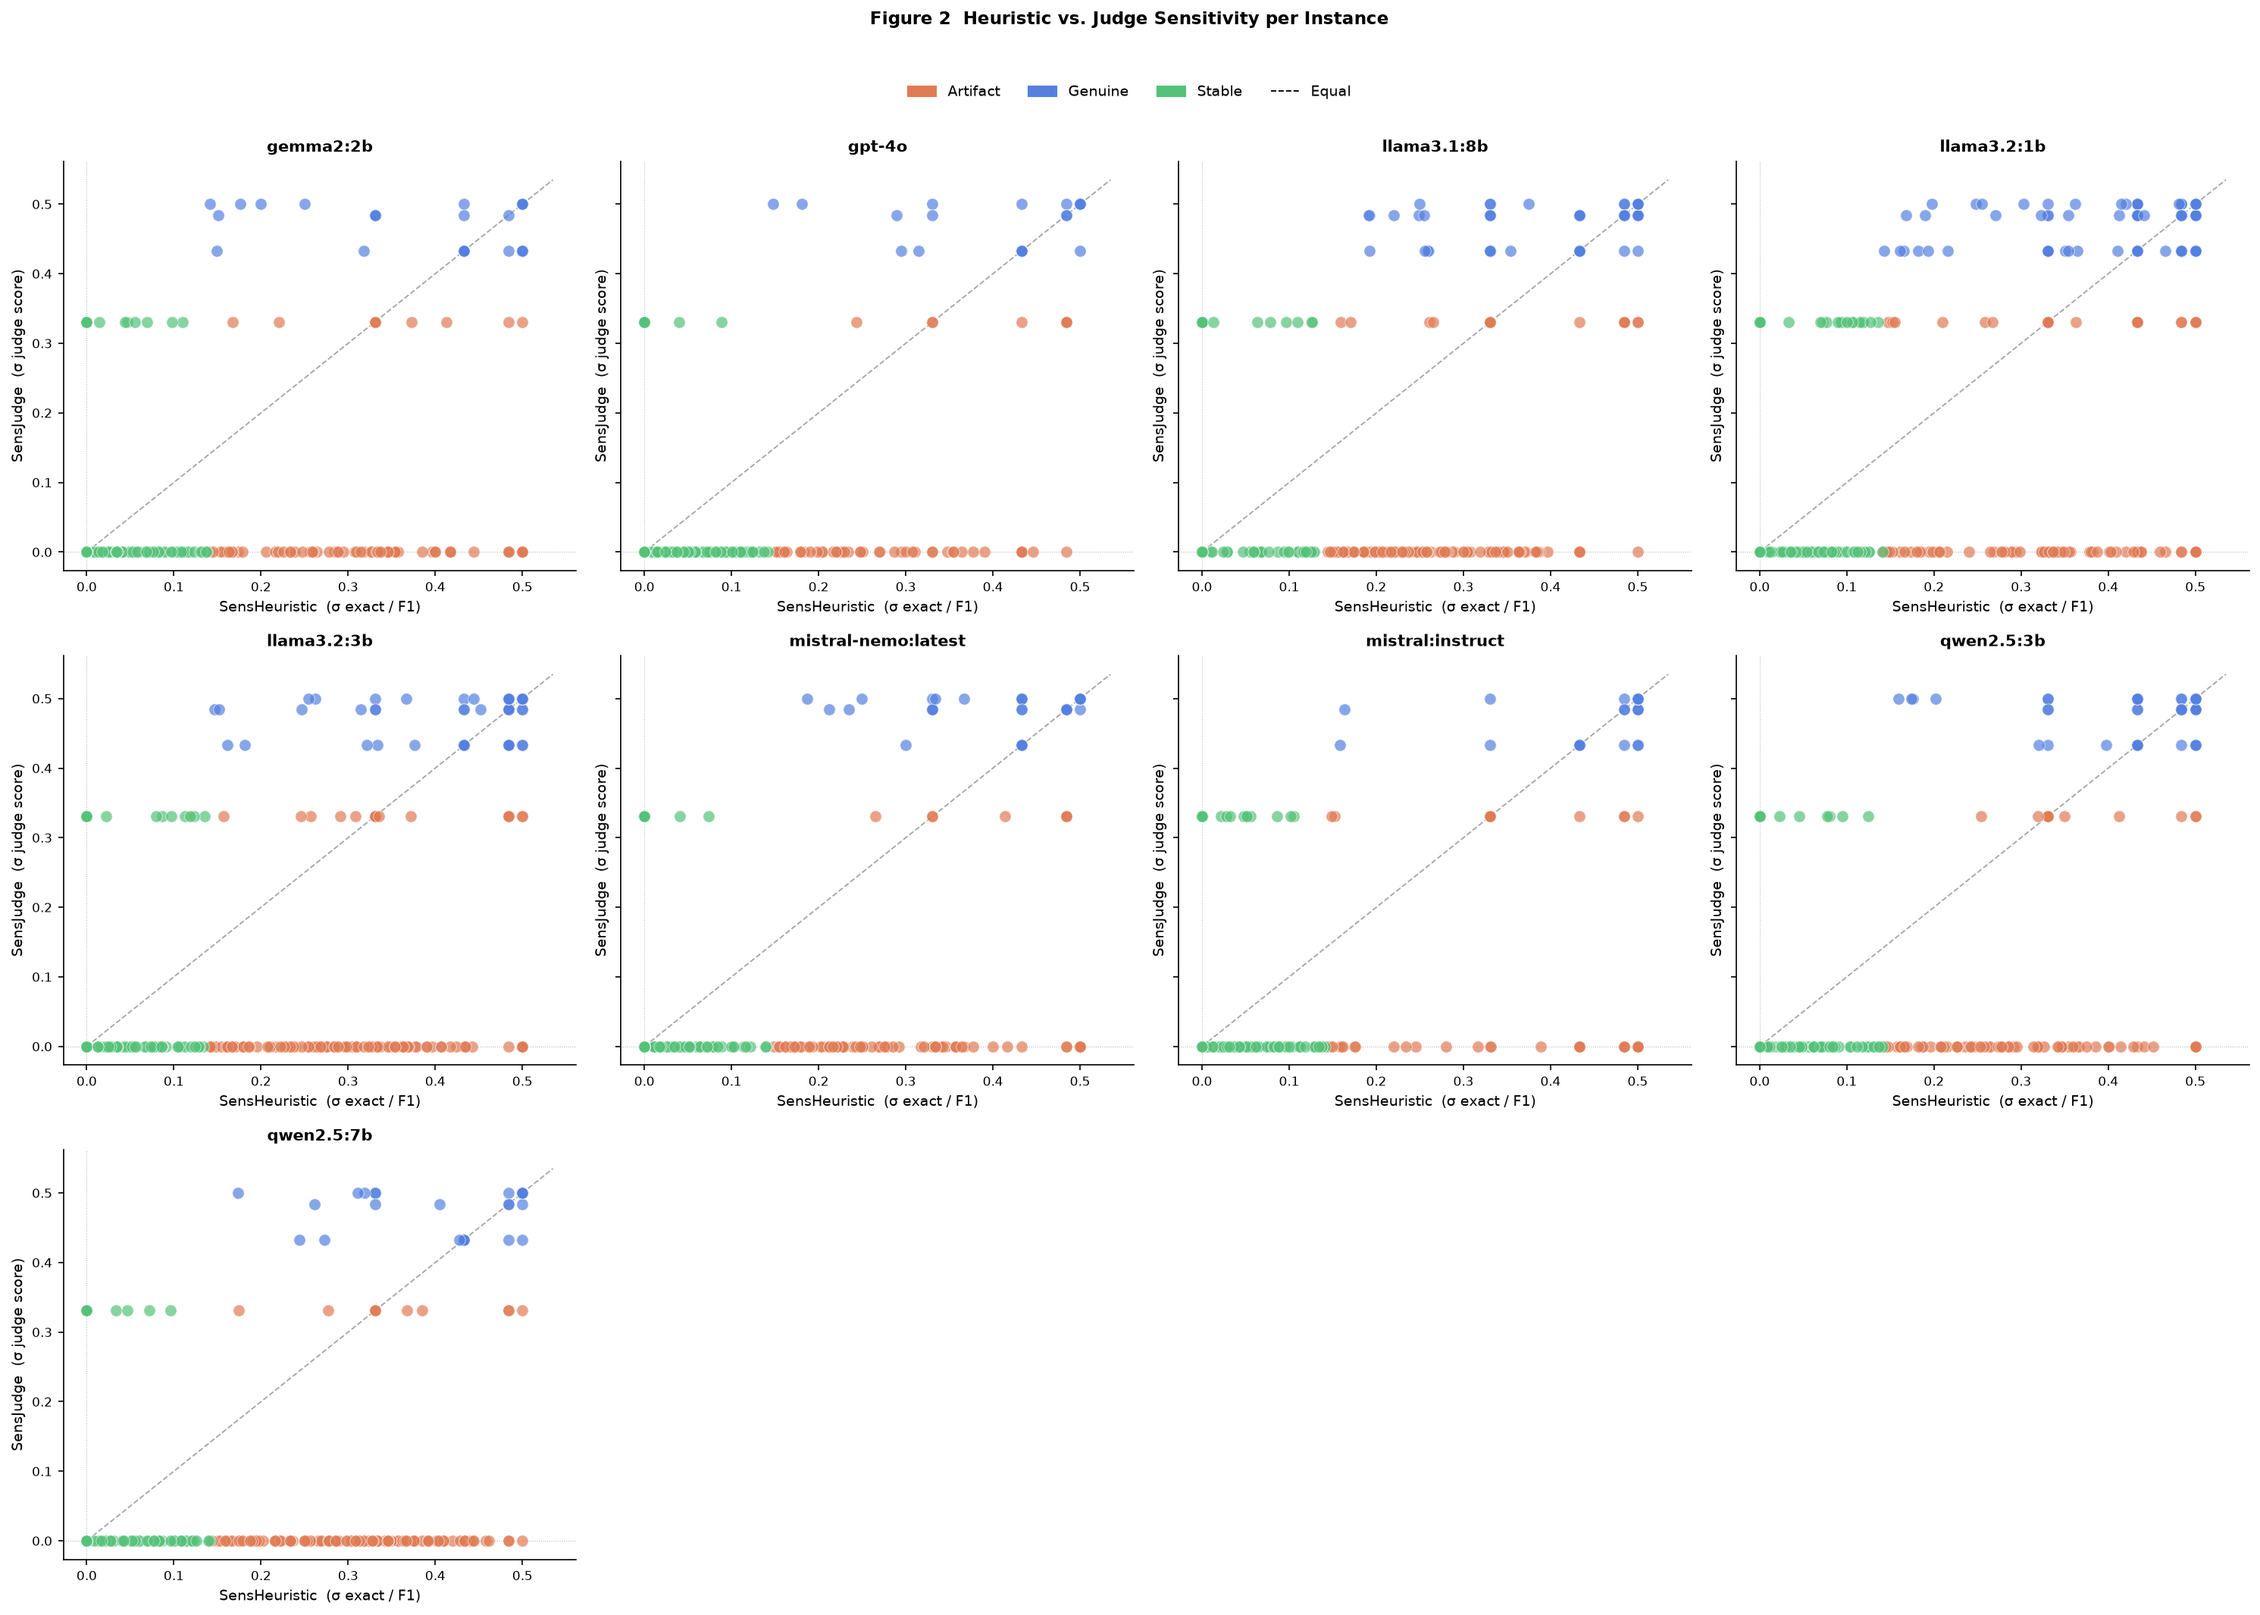
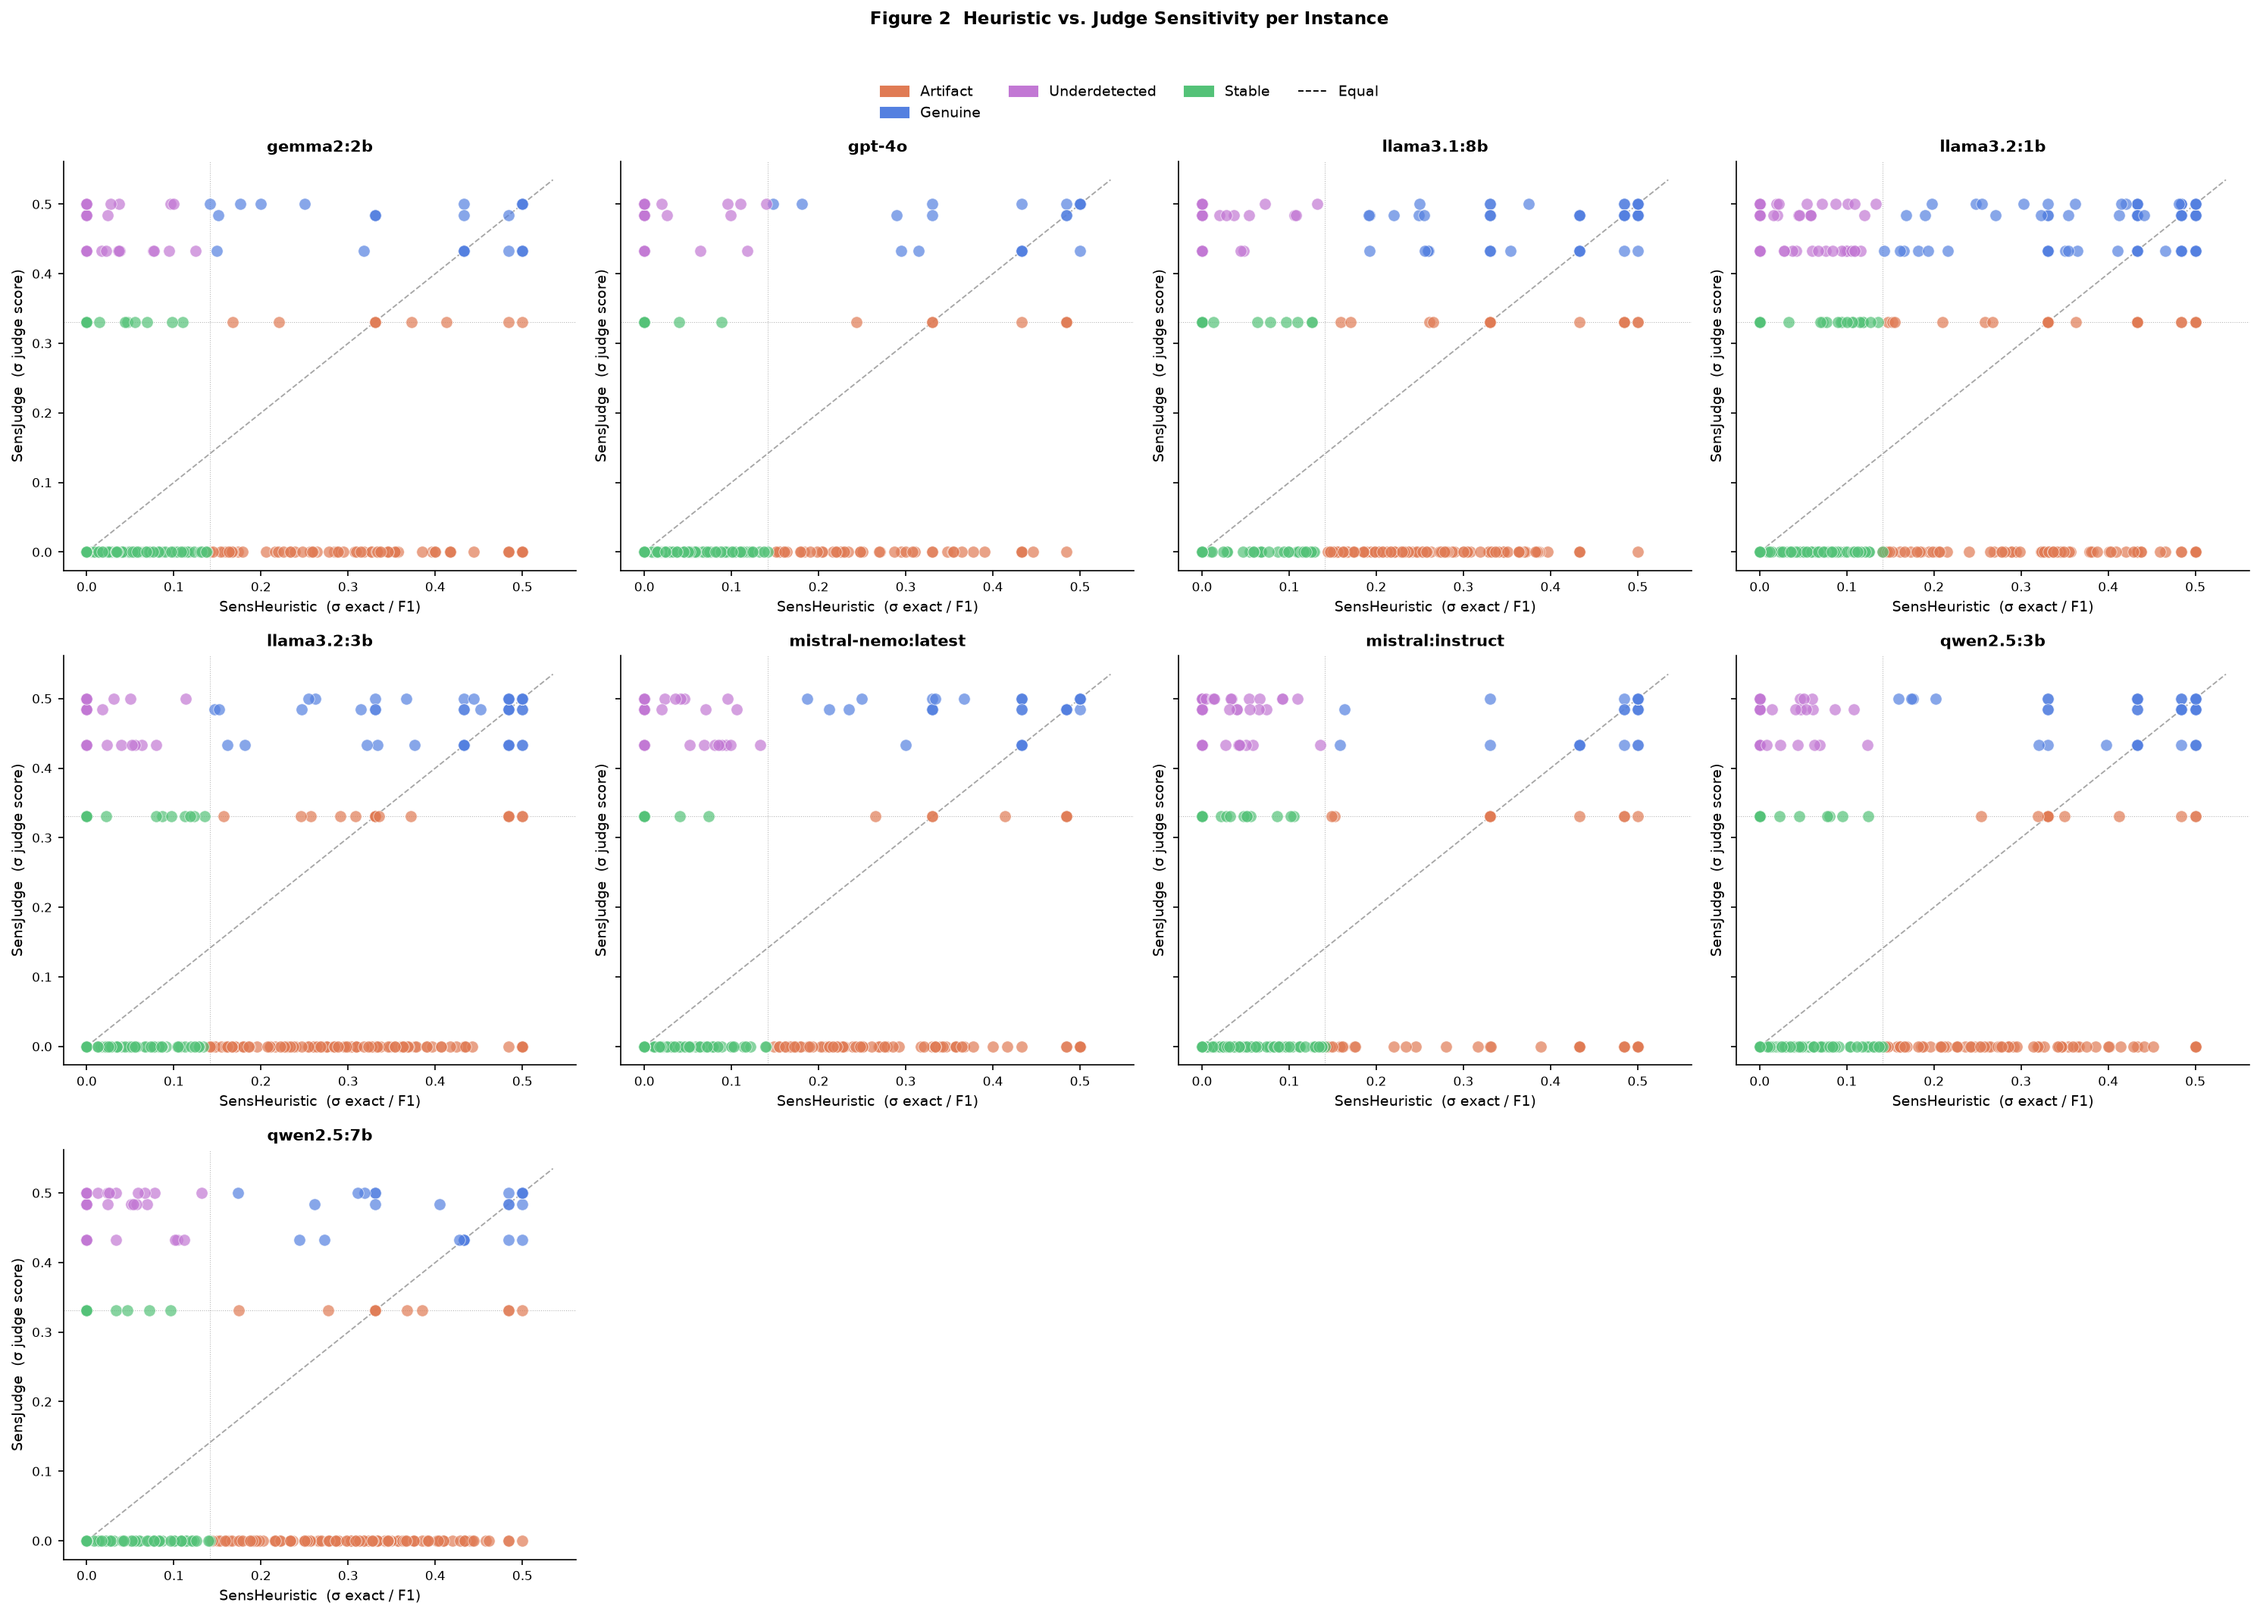
generated new figures

diff --git a/study/plot.py b/study/plot.py
@@ -26,9 +26,11 @@ import pandas as pd
 
 # Colour palette
 
-ZONE_COLOR = {"artifact": "#E07B54", "genuine": "#5480E0", "stable": "#54C278"}
-ZONE_LABEL = {"artifact": "Artifact",  "genuine": "Genuine",  "stable": "Stable"}
-ZONES      = ["artifact", "genuine", "stable"]
+ZONE_COLOR = {"artifact": "#E07B54", "genuine": "#5480E0", "stable": "#54C278",
+              "underdetected": "#C278D4"}
+ZONE_LABEL = {"artifact": "Artifact",  "genuine": "Genuine",  "stable": "Stable",
+              "underdetected": "Underdetected"}
+ZONES      = ["artifact", "genuine", "underdetected", "stable"]
 
 DATASET_LABEL = {
     "arc_challenge": "ARC-Challenge\n(MCQ)",
@@ -70,7 +72,7 @@ def figure1_trizone(inst_df: pd.DataFrame, out_path: Path) -> None:
     fig, axes = _grid_axes(len(models), cell_w=5.0, cell_h=4.5)
 
     x     = np.arange(len(datasets))
-    width = 0.22
+    width = 0.18
 
     for ax, model in zip(axes, models):
         mdf = inst_df[inst_df["model_name"] == model]
@@ -80,7 +82,7 @@ def figure1_trizone(inst_df: pd.DataFrame, out_path: Path) -> None:
                 sub = mdf[mdf["dataset"] == ds]
                 pct = (sub["trizone"] == zone).mean() * 100 if len(sub) else 0.0
                 pcts.append(pct)
-            offset = (zi - 1) * (width + 0.02)
+            offset = (zi - 1.5) * (width + 0.02)
             ax.bar(x + offset, pcts, width,
                    label=ZONE_LABEL[zone], color=ZONE_COLOR[zone],
                    alpha=0.88, edgecolor="white", linewidth=0.8)
@@ -97,9 +99,9 @@ def figure1_trizone(inst_df: pd.DataFrame, out_path: Path) -> None:
         ax.grid(axis="y", linestyle="--", alpha=0.4)
 
     handles = [mpatches.Patch(color=ZONE_COLOR[z], label=ZONE_LABEL[z]) for z in ZONES]
-    fig.legend(handles=handles, loc="upper center", ncol=3,
+    fig.legend(handles=handles, loc="upper center", ncol=4,
                bbox_to_anchor=(0.5, 1.01), fontsize=9, frameon=False)
-    fig.suptitle("Figure 1  Tri-Zone Distribution by Dataset and Model",
+    fig.suptitle("Figure 1  Four-Zone Distribution by Dataset and Model",
                  y=1.05, fontsize=11, fontweight="bold")
     plt.tight_layout()
     plt.savefig(out_path, dpi=150, bbox_inches="tight")
@@ -127,8 +129,8 @@ def figure2_scatter(inst_df: pd.DataFrame, out_path: Path) -> None:
         lim = max(mdf["sens_heuristic"].max(), mdf["sens_judge"].max()) * 1.05 + 0.01
         ax.plot([0, lim], [0, lim], "k--", linewidth=0.9, alpha=0.35, label="Equal", zorder=2)
 
-        ax.axhline(inst_df["sens_judge"].median(),     color="grey", linewidth=0.5, linestyle=":", alpha=0.6)
-        ax.axvline(inst_df["sens_heuristic"].median(), color="grey", linewidth=0.5, linestyle=":", alpha=0.6)
+        ax.axhline(inst_df["sens_judge"].quantile(0.75),     color="grey", linewidth=0.5, linestyle=":", alpha=0.6)
+        ax.axvline(inst_df["sens_heuristic"].quantile(0.75), color="grey", linewidth=0.5, linestyle=":", alpha=0.6)
 
         ax.set_xlabel("SensHeuristic  (σ exact / F1)", fontsize=9)
         ax.set_ylabel("SensJudge  (σ judge score)", fontsize=9)
@@ -139,7 +141,7 @@ def figure2_scatter(inst_df: pd.DataFrame, out_path: Path) -> None:
         ax.tick_params(labelsize=8)
 
     handles = ([mpatches.Patch(color=ZONE_COLOR[z], label=ZONE_LABEL[z]) for z in ZONES]
-               + [plt.Line2D([0], [0], color="k", linestyle="--", linewidth=0.9, label="Equal")])
+               + [plt.Line2D([0], [0], color="k", linestyle="--", linewidth=0.9, label="Equal")])  # noqa: E501
     fig.legend(handles=handles, loc="upper center", ncol=4,
                bbox_to_anchor=(0.5, 1.01), fontsize=9, frameon=False)
     fig.suptitle("Figure 2  Heuristic vs. Judge Sensitivity per Instance",
